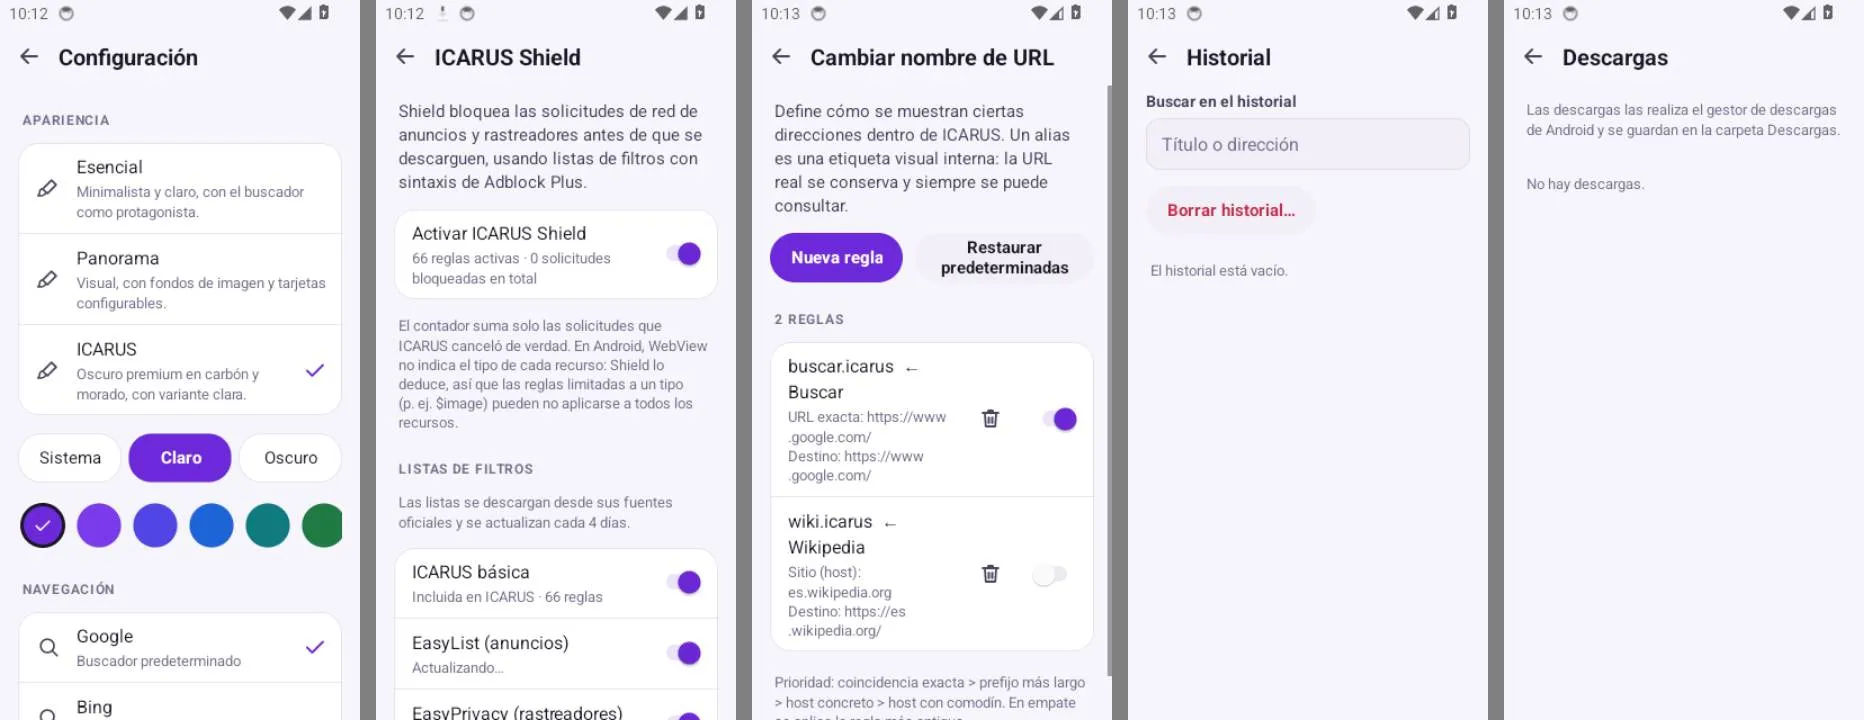
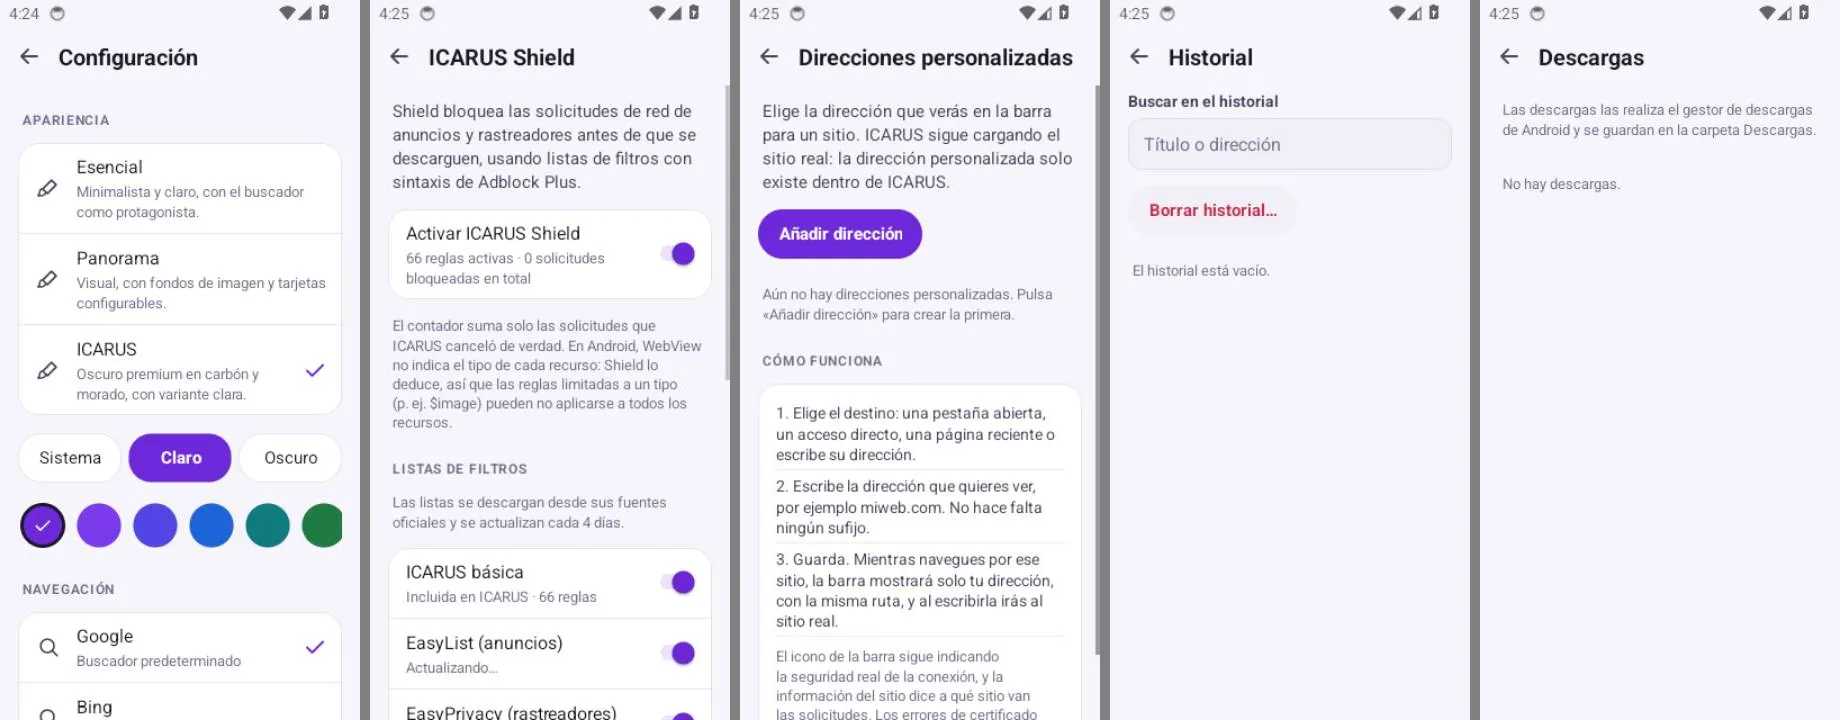
Android: «https» tachado con un certificado no válido; capturas nuevas del emulador
- La barra de Android tacha y pone en rojo «https» cuando el certificado no es
  válido, como escritorio y Chrome.
- docs/screenshots/android*.webp: capturas de la prueba en el emulador (CI) con
  la dirección personalizada miweb.com en los estilos ICARUS y Panorama, y la
  pantalla de Direcciones personalizadas en lugar de las de alias .icarus.

Claude-Session: https://claude.ai/code/session_016q86VqG52yradhsX4PirKg

diff --git a/mobile/android/app/src/main/kotlin/io/github/saaqes/icarusbrowser/Omnibox.kt b/mobile/android/app/src/main/kotlin/io/github/saaqes/icarusbrowser/Omnibox.kt
@@ -3,7 +3,11 @@ package io.github.saaqes.icarusbrowser
 import android.content.Context
 import android.text.Editable
 import android.text.InputType
+import android.text.SpannableString
+import android.text.Spanned
 import android.text.TextWatcher
+import android.text.style.ForegroundColorSpan
+import android.text.style.StrikethroughSpan
 import android.view.Gravity
 import android.view.KeyEvent
 import android.view.View
@@ -173,7 +177,16 @@ class Omnibox(
     }
 
     private fun showDisplay() {
-        edit.setText(currentDisplay().text)
+        val text = currentDisplay().text
+        // Con un certificado no válido, como Chrome: «https» tachado y en rojo.
+        if (certificateError && text.startsWith("https://")) {
+            edit.setText(SpannableString(text).apply {
+                setSpan(StrikethroughSpan(), 0, 5, Spanned.SPAN_EXCLUSIVE_EXCLUSIVE)
+                setSpan(ForegroundColorSpan(p.danger), 0, 5, Spanned.SPAN_EXCLUSIVE_EXCLUSIVE)
+            })
+        } else {
+            edit.setText(text)
+        }
     }
 
     private fun refreshIcon() {

diff --git a/README.md b/README.md
@@ -300,11 +300,11 @@ Las apps móviles tienen interfaz nativa (vistas de Android en Kotlin; SwiftUI e
 
 ![ICARUS para Android en un emulador de Android 14](docs/screenshots/android.webp)
 
-<sub>Capturas de la prueba en el emulador de Android 14 (GitHub Actions): nueva pestaña del estilo ICARUS; una página local con 2 solicitudes canceladas por Shield; certificado no válido real (`self-signed.badssl.com`) sin opción de continuar; Esencial; Panorama; y la misma página mostrada con su alias `prueba.icarus`.</sub>
+<sub>Capturas de la prueba en el emulador de Android 14 (GitHub Actions): nueva pestaña del estilo ICARUS; una página local (`127.0.0.1`, HTTP: icono «No seguro») con 2 solicitudes canceladas por Shield; la misma página con la dirección personalizada `miweb.com`; certificado no válido real (`self-signed.badssl.com`) sin opción de continuar y con la dirección real en la barra; Esencial; y Panorama mostrando `miweb.com/pagina.html`.</sub>
 
 ![Pantallas secundarias de ICARUS para Android](docs/screenshots/android-pantallas.webp)
 
-<sub>Android: Configuración, ICARUS Shield (con el contador real, aún a cero en esa prueba, y EasyList descargándose), «Cambiar nombre de URL», Historial y Descargas, capturadas por la prueba que comprueba que cada pantalla abre sin cerrarse.</sub>
+<sub>Android: Configuración, ICARUS Shield, Direcciones personalizadas (vacía en esa prueba), Historial y Descargas, capturadas por la prueba que comprueba que cada pantalla abre sin cerrarse.</sub>
 
 ![ICARUS para iPhone en el simulador de iOS](docs/screenshots/iphone.webp)
 
